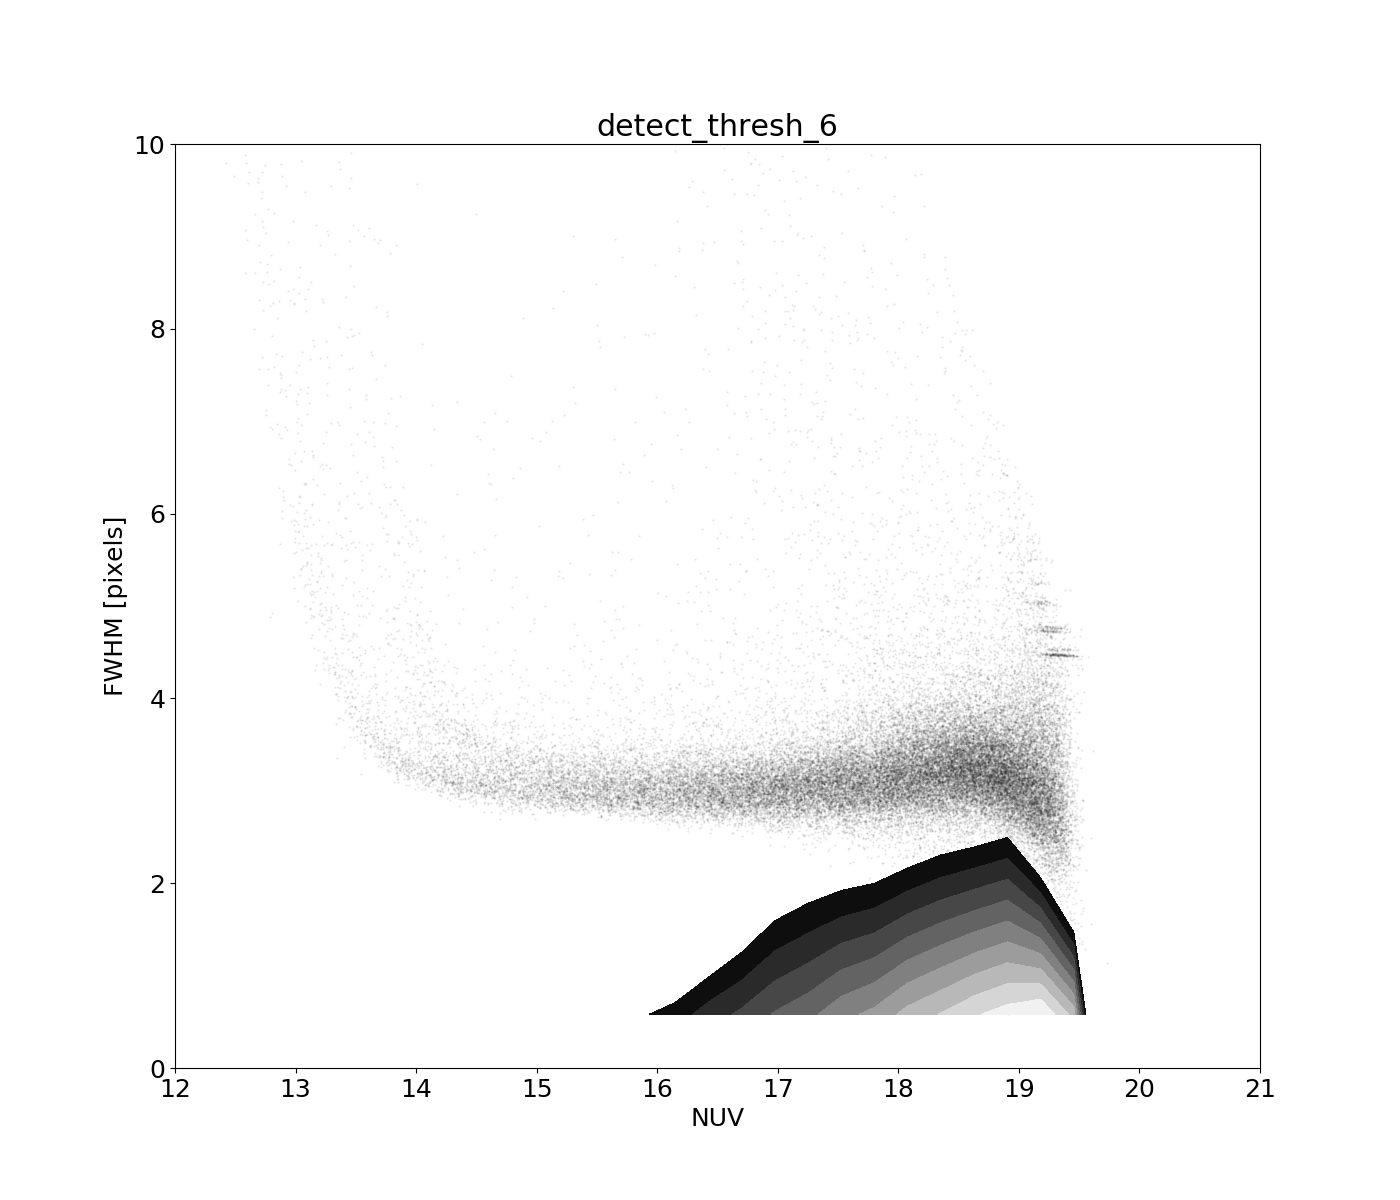
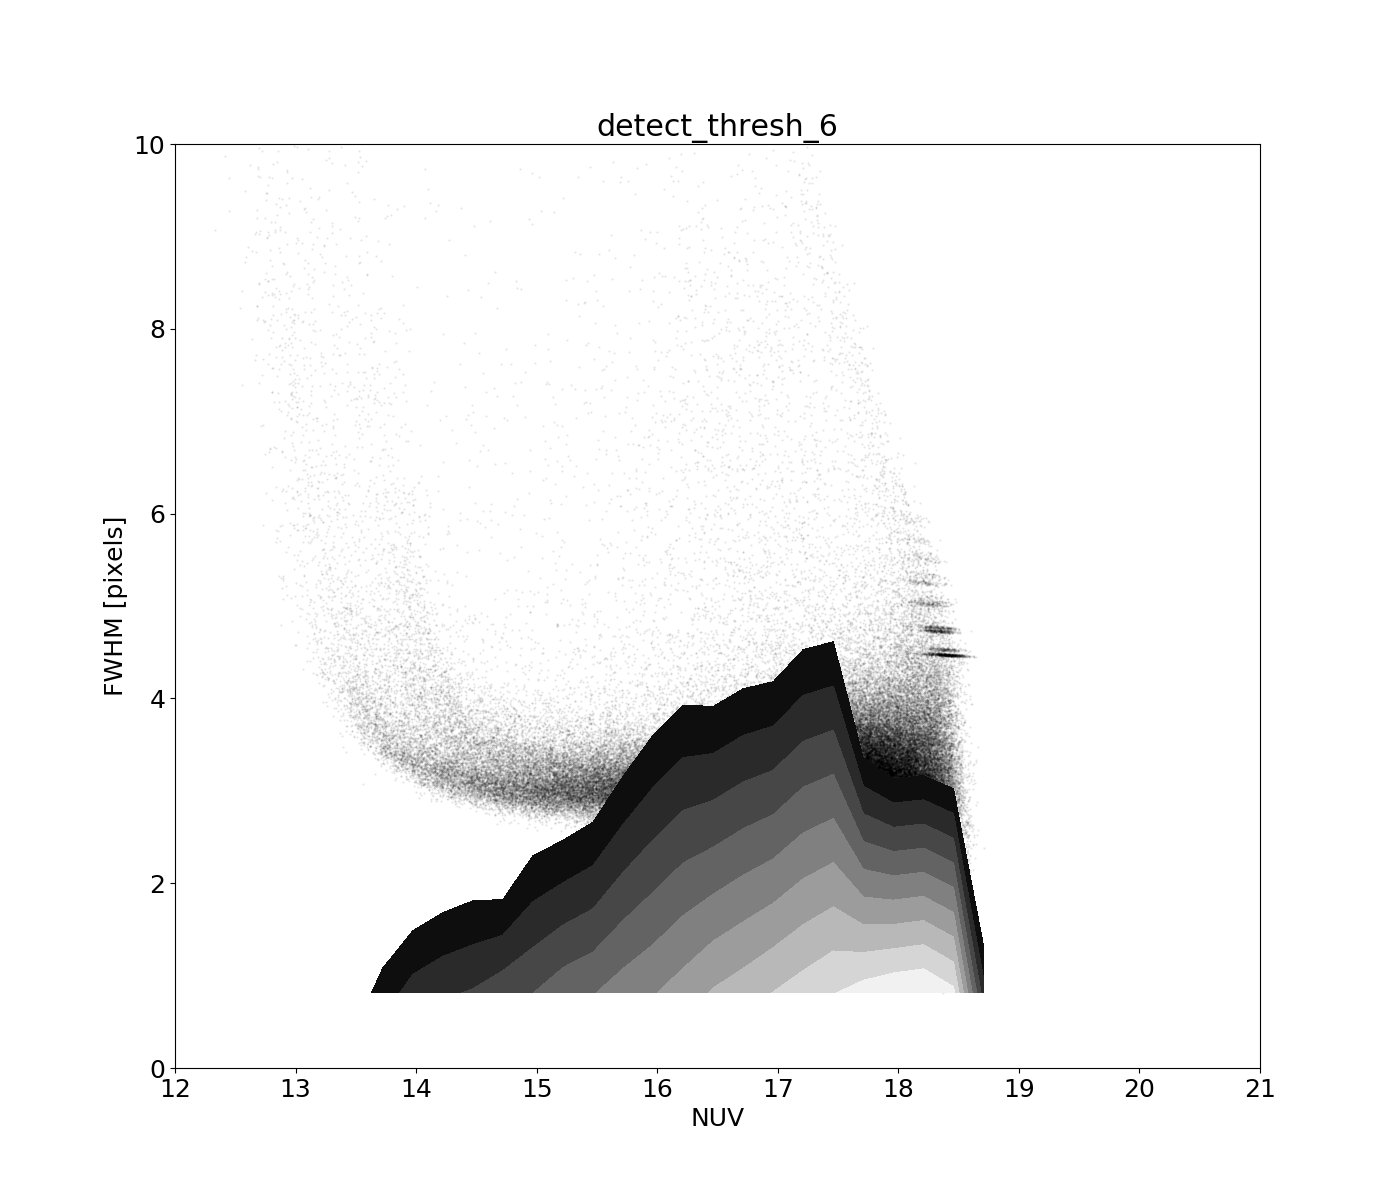
Mol cloud plots

Changed region(s): [[0.2457, 0.4317, 0.7986, 0.8633]]

diff --git a/pipeline/misc.py b/pipeline/misc.py
@@ -412,18 +412,18 @@ plt.show()
 #################################################
 scans = ['9-19', '18-28', '27-37', '36-46', '45-55', '63-73', '72-82', '81-91', '90-100', '99-109', '108-118', '117-127', '126-136', '135-145', '144-154', '153-163', '162-172', '171-181', '180-190', '189-199', '198-208', '207-217', '216-226', '225-235', '234-244', '243-253', '252-262', '261-271', '270-280', '279-289', '288-298', '297-307', '306-316', '315-325', '324-334', '333-343', '342-352', '351-1']
 
-alldata = Table.read('starcat_0-10_10_12_2018.txt', format='ascii')
+alldata = Table.read('starcat_0-10_06_06_2019.txt', format='ascii')
 alldata = alldata[np.where(alldata['gl'] < 300.)]
 
 for region in scans:
-    a = Table.read('starcat_'+region+'_10_12_2018.txt', format='ascii')
+    a = Table.read('starcat_'+region+'_06_06_2019.txt', format='ascii')
     if region == '351-1':
         a = a[np.where(a['gl'] > 300.)]
     a = a[np.where((a['FWHM_IMAGE'] > 0) & (a['FWHM_IMAGE'] < 10) & (a['gl'] > np.min(a['gl']+1.562)))]
     alldata = vstack([alldata, a])
     print region
 
-ascii.write(alldata, 'starcat_allscans_10-12-18.txt', format='basic', overwrite=True)
+ascii.write(alldata, 'starcat_allscans_06-06-19.txt', format='basic', overwrite=True)
 
 #################################################
 # Match PS1 to scan data
@@ -514,32 +514,33 @@ for scan in scans:
 #############################################################
 scans = ['0-10', '9-19', '18-28', '27-37', '36-46', '45-55', '63-73', '72-82', '81-91', '90-100', '99-109', '108-118', '117-127', '126-136', '135-145', '144-154', '153-163', '162-172', '171-181', '180-190', '189-199', '198-208', '207-217', '216-226', '225-235', '234-244', '243-253', '252-262', '261-271', '270-280', '279-289', '288-298', '297-307', '306-316', '315-325', '324-334', '333-343', '342-352', '351-1']
 
-#from photutils import aperture_photometry
-#from photutils import CircularAperture
 
 for scan in scans:
     print(scan)
-    cat = Table.read('starcat_'+scan+'_10_11_2018.txt', format='ascii')
+    cat = Table.read('starcat_'+scan+'_06_06_2019.txt', format='ascii')
+
     #bkgd = fits.open('background_im1_'+scan+'.fits')[0].data
-    #exp = fits.open('count_map_'+scan+'_exp.fits')[0].data
-    ct = fits.open('count_map_'+scan+'_count.fits')[0].data
+    exp = fits.open('count_map_'+scan+'_exp.fits')[0].data
+    #ct = fits.open('count_map_'+scan+'_count.fits')[0].data
+
     positions = [cat['X_IMAGE'], cat['Y_IMAGE']]
-	#apertures = CircularAperture(positions, r=3.)
-	#sums = aperture_photometry(img, apertures)
-    #cat['bkgdsum'] = sums['aperture_sum']
-	#ascii.write(cat, 'starcat_'+scan+'_03_26_2018.txt', format='basic')
     #bkgdval = []
+    expval = []
     #ctval = []
-    ctval = []
     for line in range(len(cat)):
-        #bkgdval.append(bkgd[int(cat['X_IMAGE'][line]), int(cat['Y_IMAGE'][line])])
-        #ctval.append(ct[int(cat['X_IMAGE'][line]), int(cat['Y_IMAGE'][line])])
         try:
-            ctval.append(ct[int(cat['Y_IMAGE'][line]), int(cat['X_IMAGE'][line])])
+            #ctval.append(ct[int(cat['Y_IMAGE'][line]), int(cat['X_IMAGE'][line])])
+            #bkgdval.append(bkgd[int(cat['Y_IMAGE'][line]), int(cat['X_IMAGE'][line])])
+            expval.append(exp[int(cat['Y_IMAGE'][line]), int(cat['X_IMAGE'][line])])
         except IndexError:
-            ctval.append(ct[int(cat['Y_IMAGE'][line])-1, int(cat['X_IMAGE'][line])-1])            
-    cat['ctsum'] = ctval
-    ascii.write(cat, 'starcat_'+scan+'_10_12_2018.txt', format='basic')
+            #ctval.append(ct[int(cat['Y_IMAGE'][line])-1, int(cat['X_IMAGE'][line])-1])
+            #bkgdval.append(bkgd[int(cat['Y_IMAGE'][line])-1, int(cat['X_IMAGE'][line])-1])
+            expval.append(exp[int(cat['Y_IMAGE'][line])-1, int(cat['X_IMAGE'][line])-1])
+    #cat['ctsum'] = ctval
+    #cat['bkgdsum'] = bkgdval
+    cat['expsum'] = expval
+
+    ascii.write(cat, 'starcat_'+scan+'_06_06_2019.txt', format='basic', overwrite=True)
 
 
 

diff --git a/pipeline/intmaps_sextractor_cluster.py b/pipeline/intmaps_sextractor_cluster.py
@@ -25,7 +25,7 @@ matplotlib.rcParams['font.size'] = 18
 # To do
 #scans = ['0-10', '108-118', '117-127', '126-136', '135-145', '144-154', '153-163', '162-172', '171-181', '180-190', '189-199', '198-208', '207-217', '216-226', '225-235', '234-244', '243-253', '252-262', '261-271', '270-280', '279-289', '288-298', '297-307', '306-316', '351-1', '315-325', '324-334', '333-343', '342-352', '9-19', '18-28', '27-37', '36-46', '45-55', '63-73', '72-82', '81-91', '90-100', '99-109']
 
-scans = ['144-154']
+scans = ['243-253']
 
 skyrange = scans
 
